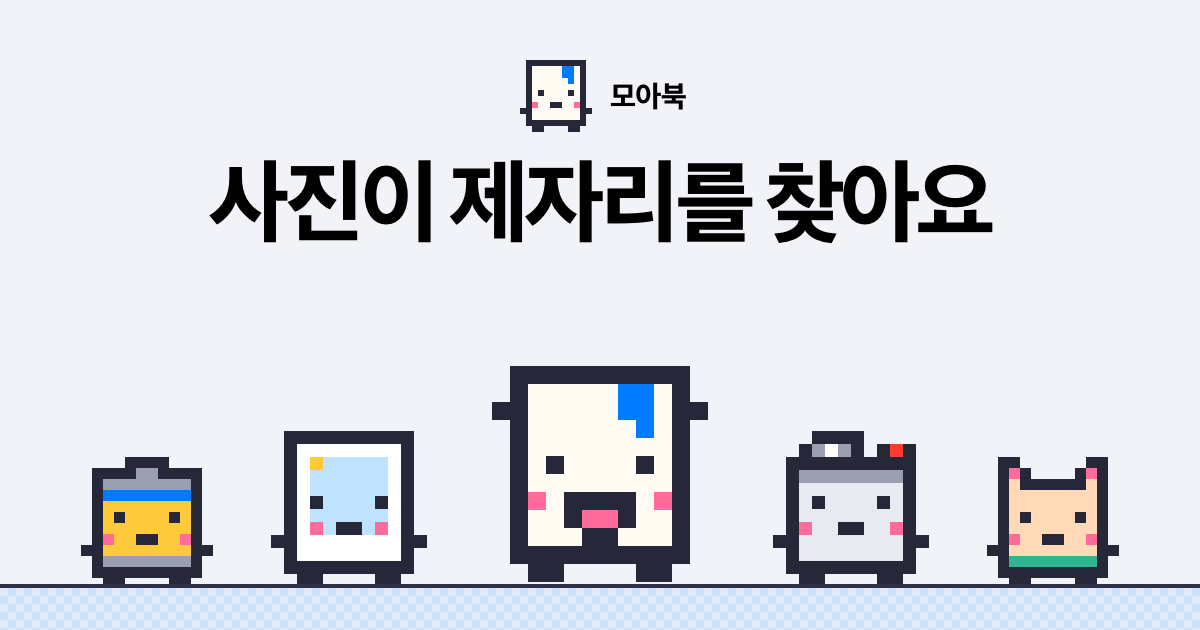
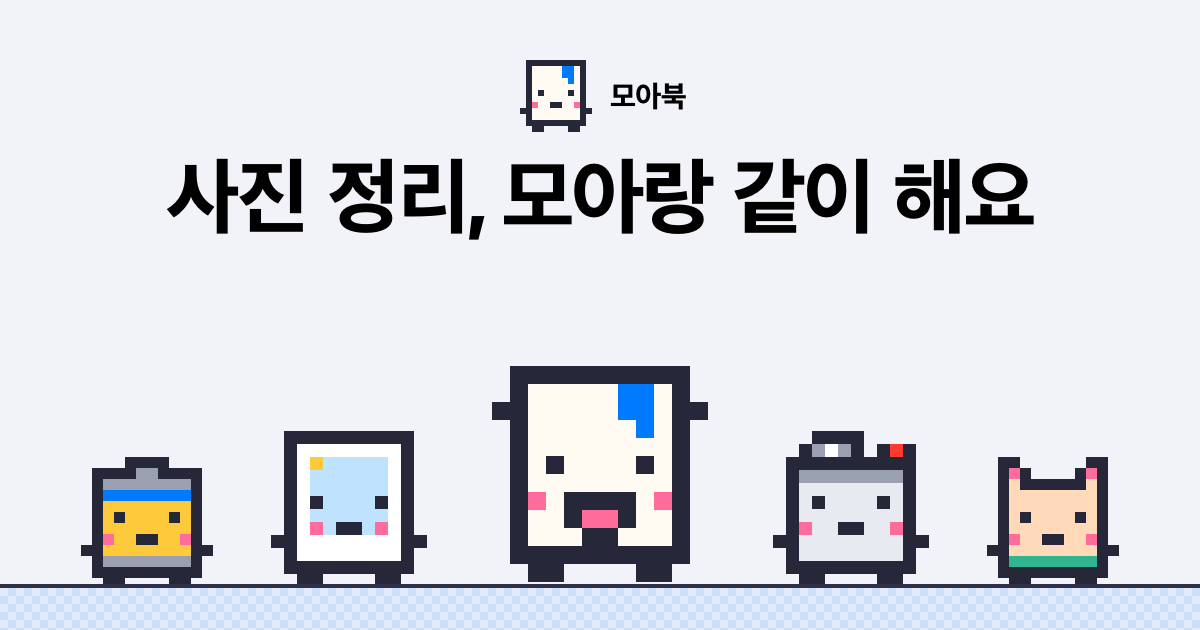
[웹] 소개 문구를 하려는 일 그대로 고침
- 첫 화면 · 문제 구역 · 공유 문구에서 '제자리', '갈 자리' 같은 은유를 빼고 앱이 하는 일(여행별 앨범, 비슷한 사진 한 장만 남기기)을 해요체로 적음
- 문제 구역을 '사진 정리, 오늘 같이 해 볼까요?'와 최근 여행 하나부터 시작하는 실제 흐름(여행 다듬기)으로 바꿈
- 마무리 친구 소개가 친구마다 기능을 맡는 것처럼 읽혀 앱 캐릭터 방 대사(성격 한마디)로 바꿈
- 안심 구역에 장소 이름을 찾을 때만 위치 좌표를 Apple 지도에 보낸다는 처리방침 내용을 더함
- 제목 쉼표 뒤가 붙어 보여 낱말 간격을 조금 넓히고, 공유 이미지(dev/og.html → assets/og.png)를 새 제목으로 다시 만듦

Changed region(s): [[0.1233, 0.2413, 0.8633, 0.3921]]

diff --git a/index.html b/index.html
@@ -3,15 +3,15 @@
 <head>
 <meta charset="utf-8">
 <meta name="viewport" content="width=device-width, initial-scale=1, viewport-fit=cover">
-<title>모아북: 사진이 제자리를 찾아요</title>
-<meta name="description" content="여행은 여행 앨범으로, 비슷한 사진은 좋은 한 장만. 다섯 픽셀 친구와 함께 iPhone 사진을 정리하는 앱 모아북이에요.">
+<title>모아북: 사진 정리, 모아랑 같이 해요</title>
+<meta name="description" content="여행 사진은 여행별 앨범으로 묶고, 여러 장 비슷하게 찍은 사진은 한 장만 남겨요. iPhone 사진 정리 앱 모아북이에요.">
 <meta name="theme-color" content="#f2f3f8" media="(prefers-color-scheme: light)">
 <meta name="theme-color" content="#000000" media="(prefers-color-scheme: dark)">
 <meta property="og:type" content="website">
 <meta property="og:locale" content="ko_KR">
 <meta property="og:site_name" content="모아북">
-<meta property="og:title" content="모아북: 사진이 제자리를 찾아요">
-<meta property="og:description" content="여행은 여행 앨범으로, 비슷한 사진은 좋은 한 장만. 다섯 친구와 함께 사진을 정리해요.">
+<meta property="og:title" content="모아북: 사진 정리, 모아랑 같이 해요">
+<meta property="og:description" content="여행 사진은 여행별 앨범으로 묶고, 여러 장 비슷하게 찍은 사진은 한 장만 남겨요.">
 <meta property="og:url" content="https://bugkingk.github.io/moabook/">
 <meta property="og:image" content="https://bugkingk.github.io/moabook/assets/og.png">
 <meta property="og:image:width" content="1200">
@@ -40,8 +40,8 @@
   <section class="hero" aria-labelledby="hero-title">
     <div class="wrap hero-grid">
     <div class="hero-copy">
-      <h1 id="hero-title">사진이 <br class="narrow">제자리를 찾아요</h1>
-      <p class="lead">여행 사진은 여행 앨범으로, 비슷한 사진은 좋은 한 장만. 모아북의 다섯 친구가 쌓인 사진을 같이 정리해요.</p>
+      <h1 id="hero-title">사진 정리, <br class="narrow">모아랑 같이 해요</h1>
+      <p class="lead">여행 사진은 여행별 앨범으로 묶고, 여러 장 비슷하게 찍은 사진은 한 장만 남겨요.</p>
       <a class="store" data-link="appstore" href="https://apps.apple.com/app/id6472587949"><span class="get" aria-hidden="true"></span><span>App Store에서 받기</span></a>
     </div>
     <div class="stage" aria-label="모아북 친구들">
@@ -85,9 +85,9 @@
         <span class="char" data-char="moa" data-mood="worried" data-size="112"></span>
       </div>
       <div class="worry-copy">
-        <h2 id="worry-title" class="bubble tail-left tail-up-narrow big" data-pop style="--theme: var(--moa)"><span class="who">모아</span>사진 2만 장, 어디서부터 해야 할지 모르겠죠?</h2>
-        <p>비슷한 사진은 수십 장씩 쌓이고, 여행 사진은 캡처 사이에 묻혀 있어요. 하나씩 지우자니 끝이 없고, 지우기에는 아깝기도 해요.</p>
-        <p class="turn">그래서 모아북은 지우기보다 먼저, 사진마다 갈 자리를 찾아 줘요.</p>
+        <h2 id="worry-title" class="bubble tail-left tail-up-narrow big" data-pop style="--theme: var(--moa)"><span class="who">모아</span>사진 정리, 오늘 같이 해 볼까요?</h2>
+        <p>사진은 계속 쌓이는데, 막상 정리하려면 어디부터 손대야 할지 막막하죠.</p>
+        <p class="turn">최근 여행 하나부터 시작해요. 비슷한 사진만 골라서 보여 드릴게요.</p>
       </div>
     </div>
   </section>
@@ -273,7 +273,7 @@
       <div class="safe-copy">
         <h2 id="safe-title">사진은 이 기기 안에서만 살펴봐요</h2>
         <ul class="facts">
-          <li>여행 찾기, 비슷한 사진 찾기, 주제 나누기는 모두 iPhone 안에서 해요. 사진을 서버로 보내지 않아요.</li>
+          <li>여행 찾기, 비슷한 사진 찾기, 주제 나누기는 모두 iPhone 안에서 해요. 사진을 서버로 보내지 않아요. 장소 이름을 찾을 때만 위치 좌표를 Apple 지도에 보내요.</li>
           <li>사용자를 추적하지 않고, 방문 통계도 모으지 않아요.</li>
           <li>휴지통에 넣은 사진은 직접 비우기 전에는 지워지지 않아요. 비운 뒤에도 사진 앱 '최근 삭제된 항목'에 30일 동안 남아요.</li>
         </ul>
@@ -301,18 +301,18 @@
       <h2 id="pick-title">어떤 친구랑 정리할래요?</h2>
       <p class="finale-sub">처음 열면 함께할 친구를 골라요. 캐릭터 탭에서 언제든 바꿀 수 있어요.</p>
       <div class="pick-stage">
-        <p class="bubble pick-bubble" data-pick-bubble aria-live="polite"><span class="who">모아</span><span data-pick-line>안녕하세요! 저는 모아예요. 사진을 앨범에 차곡차곡 모아 드릴게요.</span></p>
+        <p class="bubble pick-bubble" data-pick-bubble aria-live="polite"><span class="who">모아</span><span data-pick-line>안녕하세요! 저는 모아예요. 책장 넘기는 소리 좋죠?</span></p>
         <div class="pick-row" role="group" aria-label="함께할 친구 고르기">
-          <button class="char-btn pick" type="button" data-pick="moa" style="--theme: var(--moa)" aria-pressed="true" data-line="안녕하세요! 저는 모아예요. 사진을 앨범에 차곡차곡 모아 드릴게요."><span class="char" data-char="moa" data-acc="partyHat" data-size="98"></span><span class="pick-name">모아</span></button>
-          <button class="char-btn pick" type="button" data-pick="chalkak" style="--theme: var(--chalkak)" aria-pressed="false" data-line="찰칵! 저는 찰칵이에요. 좋은 사진은 제가 알아봐요."><span class="char" data-char="chalkak" data-acc="flower" data-size="98"></span><span class="pick-name">찰칵</span></button>
-          <button class="char-btn pick" type="button" data-pick="pola" style="--theme: var(--pola)" aria-pressed="false" data-line="안녕하세요, 저는 폴라예요. 한 장 한 장 소중하게 남겨 드릴게요."><span class="char" data-char="pola" data-acc="strawHat" data-size="98"></span><span class="pick-name">폴라</span></button>
-          <button class="char-btn pick" type="button" data-pick="rolly" style="--theme: var(--rolly)" aria-pressed="false" data-line="저는 롤리예요! 필름처럼 차곡차곡 감아 둘게요."><span class="char" data-char="rolly" data-acc="crown" data-size="98"></span><span class="pick-name">롤리</span></button>
-          <button class="char-btn pick" type="button" data-pick="nyang" style="--theme: var(--nyang)" aria-pressed="false" data-line="야옹~ 저는 냥이예요. 닮은 사진은 제가 찾아낼게요."><span class="char" data-char="nyang" data-acc="ribbon" data-size="98"></span><span class="pick-name">냥이</span></button>
+          <button class="char-btn pick" type="button" data-pick="moa" style="--theme: var(--moa)" aria-pressed="true" data-line="안녕하세요! 저는 모아예요. 책장 넘기는 소리 좋죠?"><span class="char" data-char="moa" data-acc="partyHat" data-size="98"></span><span class="pick-name">모아</span></button>
+          <button class="char-btn pick" type="button" data-pick="chalkak" style="--theme: var(--chalkak)" aria-pressed="false" data-line="찰칵! 저는 찰칵이에요. 웃어 봐요, 찍을게요!"><span class="char" data-char="chalkak" data-acc="flower" data-size="98"></span><span class="pick-name">찰칵</span></button>
+          <button class="char-btn pick" type="button" data-pick="pola" style="--theme: var(--pola)" aria-pressed="false" data-line="안녕하세요, 저는 폴라예요. 찍자마자 짠! 나와요."><span class="char" data-char="pola" data-acc="strawHat" data-size="98"></span><span class="pick-name">폴라</span></button>
+          <button class="char-btn pick" type="button" data-pick="rolly" style="--theme: var(--rolly)" aria-pressed="false" data-line="저는 롤리예요! 필름 냄새 좋아요."><span class="char" data-char="rolly" data-acc="crown" data-size="98"></span><span class="pick-name">롤리</span></button>
+          <button class="char-btn pick" type="button" data-pick="nyang" style="--theme: var(--nyang)" aria-pressed="false" data-line="야옹~ 저는 냥이예요. 꾹꾹이 해 줄까요?"><span class="char" data-char="nyang" data-acc="ribbon" data-size="98"></span><span class="pick-name">냥이</span></button>
         </div>
         <div class="floor" aria-hidden="true"></div>
       </div>
       <a class="store big" data-link="appstore" data-pick-cta href="https://apps.apple.com/app/id6472587949"><span class="get" aria-hidden="true"></span><span><small>App Store에서 받기</small><span data-pick-label>모아랑 정리 시작하기</span></span></a>
-      <figure class="phone first-run" style="--theme: var(--moa)"><img src="assets/shots/first-run.png" width="552" height="1200" loading="lazy" alt="모아북 첫 화면: 정리 방에서 모아가 기다리고 있어요"><figcaption>처음 열면 모아가 정리 방에서 기다리고 있어요</figcaption></figure>
+      <figure class="phone first-run" style="--theme: var(--moa)"><img src="assets/shots/first-run.png" width="552" height="1200" loading="lazy" alt="모아북 첫 화면: 픽셀 방에서 모아가 기다리고 있어요"><figcaption>처음 열면 모아가 방에서 기다리고 있어요</figcaption></figure>
     </div>
   </section>
 

diff --git a/dev/og.html b/dev/og.html
@@ -12,7 +12,7 @@
   .og { position: relative; width: 1200px; height: 630px; display: flex; flex-direction: column; align-items: center; }
   .brand-row { margin-top: 54px; display: flex; align-items: center; gap: 12px; font-size: 30px; font-weight: 800; letter-spacing: -0.02em; }
   .brand-row .char { --size: 40px; }
-  h1 { margin-top: 14px; font-size: 92px; font-weight: 800; letter-spacing: -0.045em; line-height: 1.05; }
+  h1 { margin-top: 14px; font-size: 84px; font-weight: 800; letter-spacing: -0.03em; word-spacing: 0.08em; line-height: 1.05; }
   .og-crew { position: absolute; bottom: 30px; left: 0; right: 0; display: flex; justify-content: center; align-items: flex-end; gap: 34px; }
   .floor { position: absolute; left: 0; right: 0; bottom: 0; height: 46px; }
 </style>
@@ -20,7 +20,7 @@
 <body>
 <div class="og">
   <div class="brand-row"><span class="char" data-char="moa" data-still></span>모아북</div>
-  <h1>사진이 제자리를 찾아요</h1>
+  <h1>사진 정리, 모아랑 같이 해요</h1>
   <div class="og-crew">
     <span class="char" data-char="rolly" data-size="154" data-still></span>
     <span class="char" data-char="pola" data-size="182" data-still></span>

diff --git a/site.css b/site.css
@@ -455,10 +455,12 @@ a { color: var(--primary1); text-underline-offset: 0.2em; }
   font-weight: 800;
   line-height: 1.08;
   letter-spacing: -0.045em;
+  word-spacing: 0.12em;
 }
 .hero .lead {
   margin: 18px auto 0;
-  max-width: 28em;
+  max-width: 32em;
+  text-wrap: balance;
   font-size: clamp(17px, 2.2vw, 20px);
   color: var(--text-2);
 }
@@ -524,6 +526,7 @@ a { color: var(--primary1); text-underline-offset: 0.2em; }
   font-weight: 800;
   line-height: 1.3;
   letter-spacing: -0.03em;
+  word-spacing: 0.08em;
   max-width: 16em;
   padding: 26px 26px 22px;
 }
